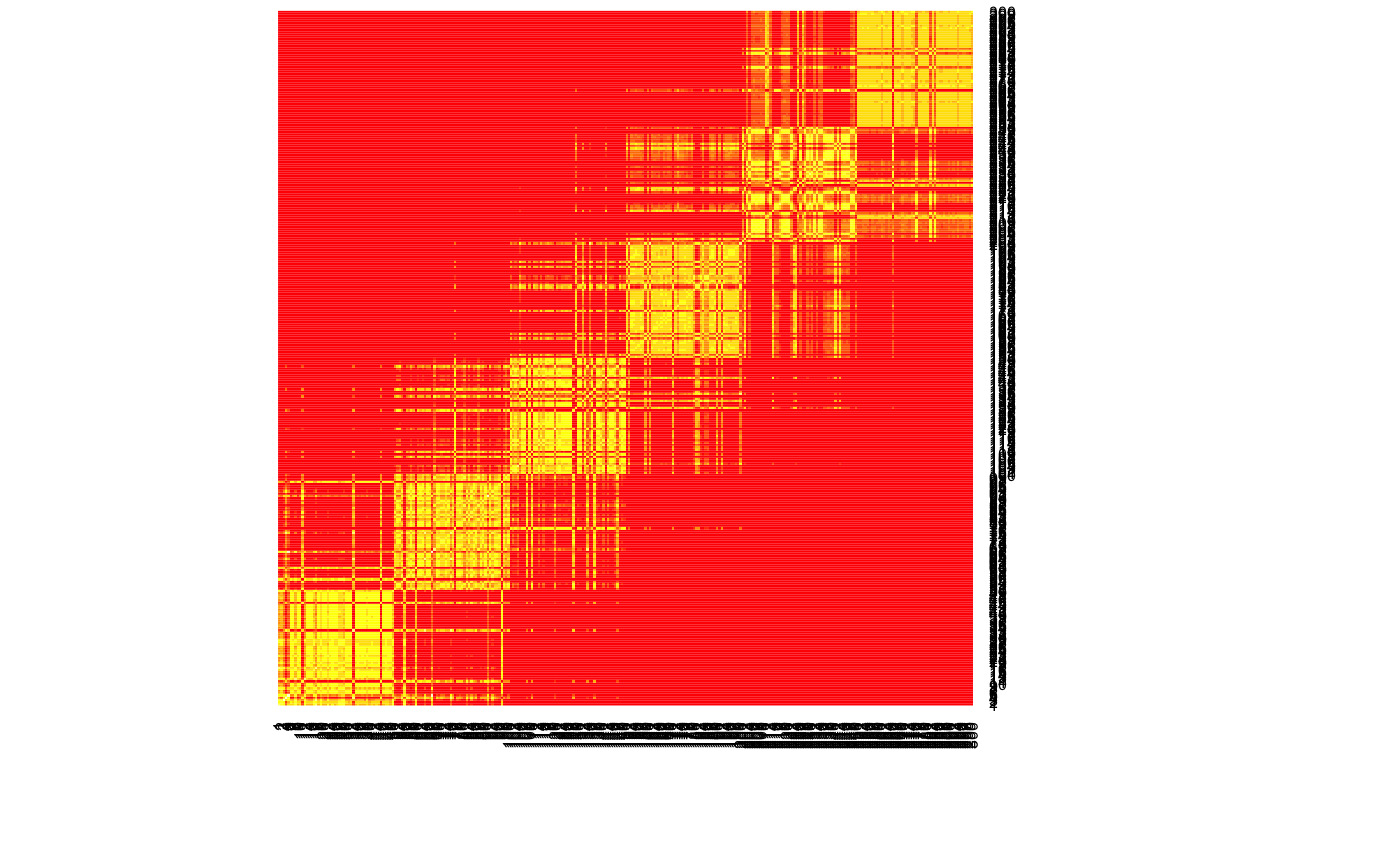
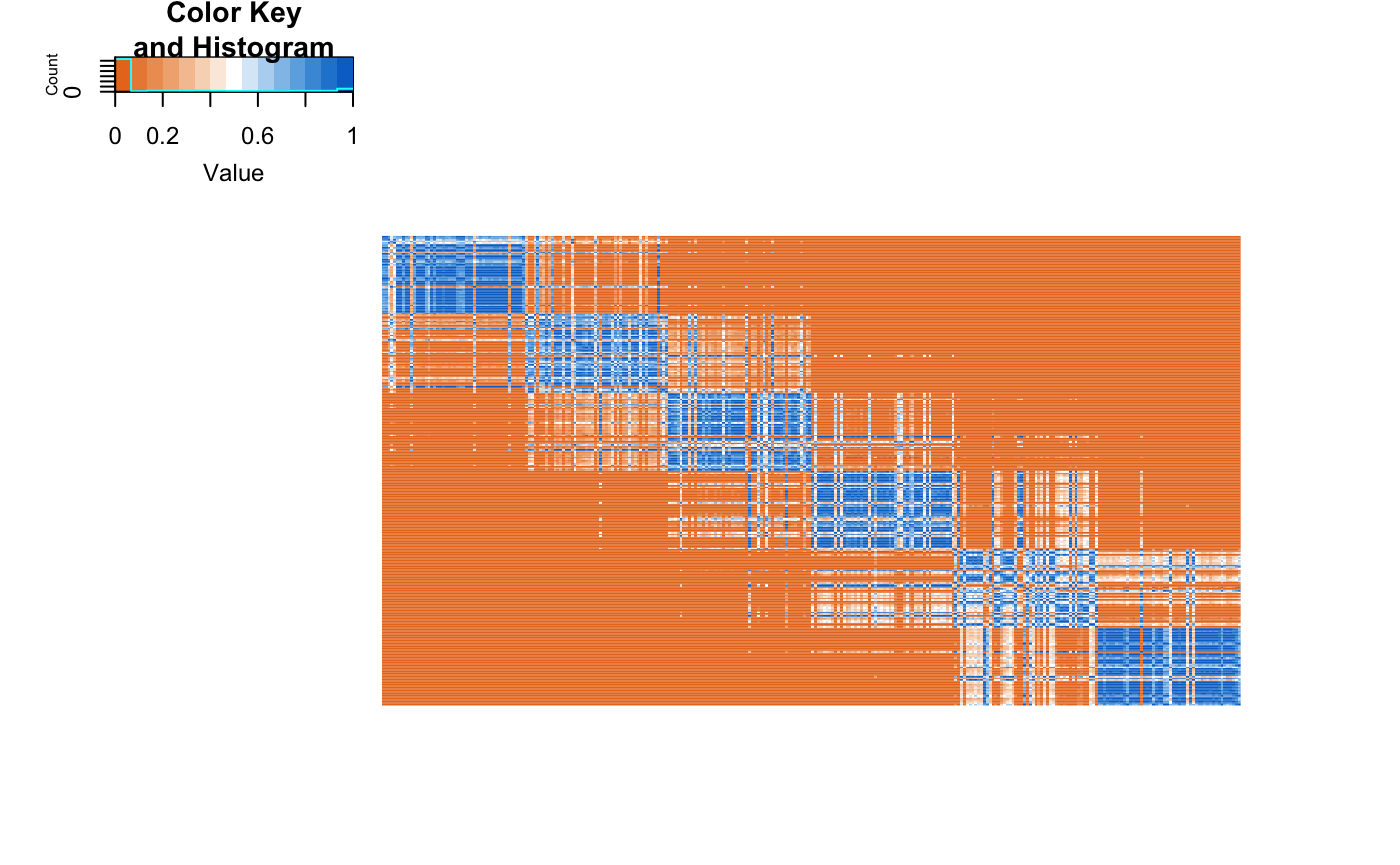
update vignette
use plotSimilarityMatrix instead of heatmap

diff --git a/docs/reference/lmkkmeans.html b/docs/reference/lmkkmeans.html
@@ -165,15 +165,15 @@
 <span class='co'>#perform training</span>
 <span class='no'>state</span> <span class='kw'>&lt;-</span> <span class='fu'>lmkkmeans</span>(<span class='no'>km</span>, <span class='no'>parameters</span>)
 <span class='co'>#display the clustering</span>
-<span class='fu'>print</span>(<span class='no'>state</span>$<span class='no'>clustering</span>)</div><div class='output co'>#&gt;   [1] 1 1 1 1 1 1 1 1 1 1 1 1 1 1 1 1 1 1 1 1 1 1 1 1 1 1 1 1 1 1 1 1 1 1 1 1 1
-#&gt;  [38] 1 1 1 1 1 1 1 1 1 1 1 1 1 1 1 1 1 1 1 1 1 1 1 1 1 1 1 1 1 1 1 1 1 1 1 1 1
-#&gt;  [75] 1 1 1 1 1 1 1 1 1 1 1 1 1 1 1 1 1 1 1 1 1 1 1 1 1 1 1 1 1 1 1 1 1 1 1 1 1
-#&gt; [112] 1 1 1 1 1 1 1 1 1 1 1 1 1 1 1 1 1 2 1 1 1 1 1 1 1 1 1 1 1 1 1 1 1 1 1 1 1
-#&gt; [149] 1 1 2 2 2 2 2 2 2 2 2 2 2 2 2 2 2 2 2 2 2 2 2 2 2 2 2 2 2 2 2 2 2 2 2 2 2
-#&gt; [186] 2 2 2 2 2 2 2 2 2 2 2 2 2 2 1 2 2 2 2 2 2 2 2 2 2 2 2 2 2 2 2 2 2 2 2 2 2
-#&gt; [223] 2 2 2 2 2 2 2 2 2 2 2 2 2 2 2 2 2 2 2 2 2 2 2 2 2 2 2 2 2 2 2 2 2 2 2 2 2
-#&gt; [260] 2 2 2 2 2 2 2 2 2 2 2 2 2 2 2 2 2 2 2 2 2 2 2 2 2 2 2 2 2 2 2 2 2 2 2 2 2
-#&gt; [297] 2 2 2 2</div><div class='input'><span class='co'>#display the kernel weights</span>
+<span class='fu'>print</span>(<span class='no'>state</span>$<span class='no'>clustering</span>)</div><div class='output co'>#&gt;   [1] 2 2 2 2 2 2 2 2 2 2 2 2 2 2 2 2 2 2 2 2 2 2 2 2 2 2 2 2 2 2 2 2 2 2 2 2 2
+#&gt;  [38] 2 2 2 2 2 2 2 2 2 2 2 2 2 2 2 2 2 2 2 2 2 2 2 2 2 2 2 2 2 2 2 2 2 2 2 2 2
+#&gt;  [75] 2 2 2 2 2 2 2 2 2 2 2 2 2 2 2 2 2 2 2 2 2 2 2 2 2 2 2 2 2 2 2 2 2 2 2 2 2
+#&gt; [112] 2 2 2 2 2 2 2 2 2 2 2 2 2 2 2 2 2 1 2 2 2 2 2 2 2 2 2 2 2 2 2 2 2 2 2 2 2
+#&gt; [149] 2 2 1 1 1 1 1 1 1 1 1 1 1 1 1 1 1 1 1 1 1 1 1 1 1 1 1 1 1 1 1 1 1 1 1 1 1
+#&gt; [186] 1 1 1 1 1 1 1 1 1 1 1 1 1 1 2 1 1 1 1 1 1 1 1 1 1 1 1 1 1 1 1 1 1 1 1 1 1
+#&gt; [223] 1 1 1 1 1 1 1 1 1 1 1 1 1 1 1 1 1 1 1 1 1 1 1 1 1 1 1 1 1 1 1 1 1 1 1 1 1
+#&gt; [260] 1 1 1 1 1 1 1 1 1 1 1 1 1 1 1 1 1 1 1 1 1 1 1 1 1 1 1 1 1 1 1 1 1 1 1 1 1
+#&gt; [297] 1 1 1 1</div><div class='input'><span class='co'>#display the kernel weights</span>
 <span class='fu'>print</span>(<span class='no'>state</span>$<span class='no'>Theta</span>)</div><div class='output co'>#&gt;             [,1]      [,2]      [,3]
 #&gt;   [1,] 0.3396237 0.3366794 0.3236969
 #&gt;   [2,] 0.3362360 0.3368899 0.3268742

diff --git a/docs/reference/kkmeans.html b/docs/reference/kkmeans.html
@@ -154,15 +154,15 @@
 <span class='co'>#perform training</span>
 <span class='no'>state</span> <span class='kw'>&lt;-</span> <span class='fu'>kkmeans</span>(<span class='no'>km</span>, <span class='no'>parameters</span>)
 <span class='co'># Display the clustering</span>
-<span class='fu'>print</span>(<span class='no'>state</span>$<span class='no'>clustering</span>)</div><div class='output co'>#&gt;   [1] 4 4 4 4 4 4 4 4 4 4 4 4 4 4 4 4 4 6 4 4 4 4 4 4 4 4 4 4 4 4 4 4 4 4 4 4 4
-#&gt;  [38] 4 4 4 4 4 4 4 4 4 6 4 4 4 6 6 6 6 6 6 4 6 6 6 6 6 6 6 6 6 6 6 4 6 6 2 6 6
-#&gt;  [75] 6 6 6 6 6 6 6 6 6 2 6 6 4 6 6 6 6 6 6 6 6 6 6 6 6 4 2 2 6 2 6 2 2 6 6 2 2
-#&gt; [112] 2 2 2 6 2 6 2 2 2 2 2 2 2 2 2 2 6 2 6 2 2 2 2 2 2 2 6 2 2 2 2 2 2 2 2 2 2
-#&gt; [149] 2 5 5 5 5 5 5 5 5 5 5 1 5 2 5 5 5 5 5 5 1 5 5 5 5 5 5 2 5 5 5 5 2 5 5 1 5
-#&gt; [186] 5 5 5 5 5 5 5 5 5 5 5 5 5 5 2 1 1 1 5 1 5 1 5 5 1 1 5 1 1 1 1 3 1 5 1 1 1
-#&gt; [223] 1 3 1 1 1 1 5 1 1 1 1 1 3 1 1 1 1 1 1 3 5 1 1 5 1 1 1 1 3 3 3 3 3 3 3 3 3
-#&gt; [260] 3 3 3 3 3 3 1 3 3 3 3 3 3 1 3 3 3 3 3 3 1 3 3 1 3 3 3 1 3 3 3 3 3 3 3 3 3
-#&gt; [297] 1 3 3 3</div></pre>
+<span class='fu'>print</span>(<span class='no'>state</span>$<span class='no'>clustering</span>)</div><div class='output co'>#&gt;   [1] 4 4 4 4 4 4 4 4 4 4 4 4 4 4 4 4 4 5 4 4 4 4 4 4 4 4 4 4 4 4 4 4 4 4 4 4 4
+#&gt;  [38] 4 4 4 4 4 4 4 4 4 5 4 4 4 5 5 5 5 5 5 4 5 5 5 5 5 5 5 5 5 5 5 4 5 5 3 5 5
+#&gt;  [75] 5 5 5 5 5 5 5 5 5 3 5 5 4 5 5 5 5 5 5 5 5 5 5 5 5 4 3 3 5 3 5 3 3 5 5 3 3
+#&gt; [112] 3 3 3 5 3 5 3 3 3 3 3 3 3 3 3 3 5 3 5 3 3 3 3 3 3 3 5 3 3 3 3 3 3 3 3 3 3
+#&gt; [149] 3 2 2 2 2 2 2 2 2 2 2 1 2 3 2 2 2 2 2 2 1 2 2 2 2 2 2 3 2 2 2 2 3 2 2 1 2
+#&gt; [186] 2 2 2 2 2 2 2 2 2 2 2 2 2 2 3 1 1 1 2 1 2 1 2 2 1 1 2 1 1 1 1 6 1 2 1 1 1
+#&gt; [223] 1 6 1 1 1 1 2 1 1 1 1 1 6 1 1 1 1 1 1 6 2 1 1 2 1 1 1 1 6 6 6 6 6 6 6 6 6
+#&gt; [260] 6 6 6 6 6 6 1 6 6 6 6 6 6 1 6 6 6 6 6 6 1 6 6 1 6 6 6 1 6 6 6 6 6 6 6 6 6
+#&gt; [297] 1 6 6 6</div></pre>
   </div>
   <div class="col-md-3 hidden-xs hidden-sm" id="sidebar">
     <h2>Contents</h2>

diff --git a/docs/reference/maximiseSilhouette.html b/docs/reference/maximiseSilhouette.html
@@ -176,7 +176,7 @@
 <span class='no'>maxSil</span> <span class='kw'>&lt;-</span> <span class='fu'>maximiseSilhouette</span>(<span class='no'>km</span>, <span class='no'>clLabels</span>, <span class='kw'>maxK</span> <span class='kw'>=</span> <span class='fl'>3</span>)
 <span class='co'># The output of maximiseSilhouette contains:</span>
 <span class='co'># * the values of the average silhoeutte for each number of clusters</span>
-<span class='fu'>print</span>(<span class='no'>maxSil</span>$<span class='no'>silhouette</span>)</div><div class='output co'>#&gt; [1] 0.7061144 0.7018447</div><div class='input'><span class='co'># * the number of clusters that maximises the average silhouette</span>
+<span class='fu'>print</span>(<span class='no'>maxSil</span>$<span class='no'>silhouette</span>)</div><div class='output co'>#&gt; [1] 0.7177013 0.7039903</div><div class='input'><span class='co'># * the number of clusters that maximises the average silhouette</span>
 <span class='co'># (if more than one value for the number of clusters k maximises the silhouette,</span>
 <span class='co'># all the such values are reported in the output)</span>
 <span class='fu'>print</span>(<span class='no'>maxSil</span>$<span class='no'>k</span>)</div><div class='output co'>#&gt; [1] 2</div></pre>
